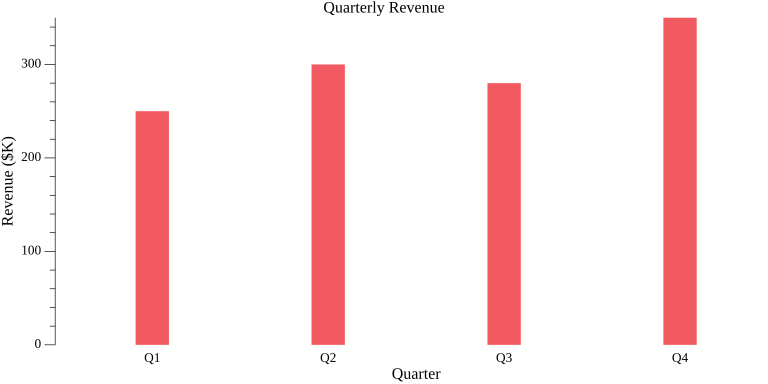
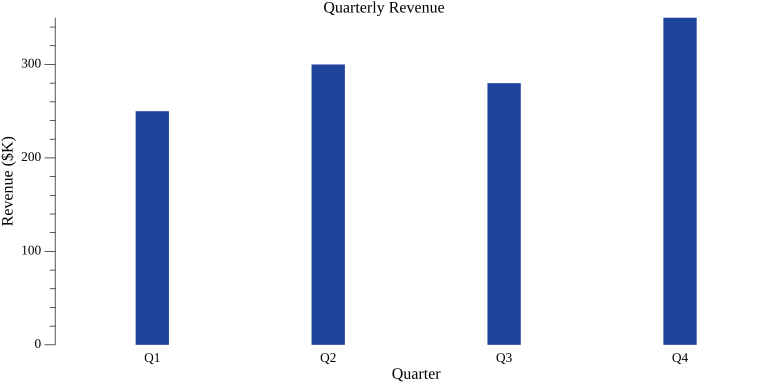
feat(plot,gplot): open the shared palette with Insyra's brand colours (#413)
plot and gplot now draw series i from one palette, internal/palette,
which opens with the website's blue #1F449B, orange #F9AC41 and red
#D73E3E. gplot's doc images are redrawn.

diff --git a/plot/internal/colors.go b/plot/internal/colors.go
@@ -2,6 +2,8 @@
 
 package internal
 
+import "github.com/HazelnutParadise/insyra/internal/palette"
+
 // DefaultColors returns a carefully curated palette of 64 colors designed for data visualization.
 // This palette is designed to be:
 // - Comfortable and easy on the eyes
@@ -25,91 +27,12 @@ package internal
 // 7. Warm Neutrals (sophistication, elegance)
 // 8. Cool Accents (diversity, interest, depth)
 //
-// Arrangement: Colors are interleaved so that index 0 is from family 1,
-// index 1 is from family 2, index 2 is from family 3, etc.
-// This maximizes visual distinction between consecutive series.
+// Arrangement: Colors are interleaved across the families, so consecutive
+// series differ. The first round opens with Insyra's three brand colours,
+// blue, orange and red, the ones the website uses. The palette lives in
+// internal/palette, which gplot shares.
 func DefaultColors() []string {
-	return []string{
-		// Round 1: First color from each family
-		"#4A90E2", // Blues: Bright sky blue
-		"#50C878", // Greens: Emerald
-		"#9B59B6", // Purples: Amethyst
-		"#E74C3C", // Reds/Pinks: Vibrant red
-		"#F39C12", // Oranges/Ambers: Golden orange
-		"#1ABC9C", // Teals/Cyans: Turquoise
-		"#95A5A6", // Warm Neutrals: Slate gray
-		"#E67E22", // Cool Accents: Pumpkin
-
-		// Round 2: Second color from each family
-		"#5B9BD5", // Blues: Soft azure
-		"#6DB784", // Greens: Soft jade
-		"#8E7AB5", // Purples: Lavender purple
-		"#F06292", // Reds/Pinks: Rose pink
-		"#FF9F4A", // Oranges/Ambers: Tangerine
-		"#26C6DA", // Teals/Cyans: Bright cyan
-		"#8D6E63", // Warm Neutrals: Mocha brown
-		"#16A085", // Cool Accents: Dark turquoise
-
-		// Round 3: Third color from each family
-		"#6B7FBD", // Blues: Muted periwinkle
-		"#8BC34A", // Greens: Fresh lime
-		"#B47EBF", // Purples: Orchid
-		"#EC6B7A", // Reds/Pinks: Coral red
-		"#FFB74D", // Oranges/Ambers: Soft amber
-		"#4DB6AC", // Teals/Cyans: Teal green
-		"#B8956A", // Warm Neutrals: Warm taupe
-		"#9C27B0", // Cool Accents: Deep purple
-
-		// Round 4: Fourth color from each family
-		"#3D5A98", // Blues: Deep royal blue
-		"#45B592", // Greens: Sea green
-		"#7B68AB", // Purples: Royal purple
-		"#D47A8A", // Reds/Pinks: Dusty rose
-		"#E89944", // Oranges/Ambers: Burnt orange
-		"#48C9B0", // Teals/Cyans: Aquamarine
-		"#A1887F", // Warm Neutrals: Soft brown
-		"#D35400", // Cool Accents: Rust
-
-		// Round 5: Fifth color from each family
-		"#5DADE2", // Blues: Light ocean blue
-		"#66A266", // Greens: Forest green
-		"#A67CB5", // Purples: Soft mauve
-		"#E57373", // Reds/Pinks: Light red
-		"#FFA726", // Oranges/Ambers: Light orange
-		"#5CC5C0", // Teals/Cyans: Seafoam
-		"#9E9E9E", // Warm Neutrals: Medium gray
-		"#27AE60", // Cool Accents: Kelly green
-
-		// Round 6: Sixth color from each family
-		"#2E7D9A", // Blues: Teal blue
-		"#7CB342", // Greens: Apple green
-		"#9575CD", // Purples: Medium purple
-		"#C7556B", // Reds/Pinks: Berry red
-		"#FF8C42", // Oranges/Ambers: Mandarin
-		"#43A19E", // Teals/Cyans: Dark teal
-		"#AB8F7D", // Warm Neutrals: Caramel
-		"#C0392B", // Cool Accents: Brick red
-
-		// Round 7: Seventh color from each family
-		"#7BA3CC", // Blues: Powder blue
-		"#5FAD56", // Greens: Meadow green
-		"#8B7FB8", // Purples: Periwinkle purple
-		"#E85D75", // Reds/Pinks: Watermelon
-		"#F8B739", // Oranges/Ambers: Honey gold
-		"#50BCD4", // Teals/Cyans: Sky cyan
-		"#90A4AE", // Warm Neutrals: Blue gray
-		"#2980B9", // Cool Accents: Ocean blue
-
-		// Round 8: Eighth color from each family
-		"#4169A8", // Blues: Medium cobalt
-		"#4D9D7C", // Greens: Sage green
-		"#BA68C8", // Purples: Light violet
-		"#D66B75", // Reds/Pinks: Salmon pink
-		"#E6A23C", // Oranges/Ambers: Marigold
-		"#3EACB4", // Teals/Cyans: Ocean teal
-		"#7D6C65", // Warm Neutrals: Cocoa
-		"#F1C40F", // Cool Accents: Sunny yellow
-	}
+	return palette.Hex()
 }
 
 // GetColor returns the color at the specified index from the default palette.

diff --git a/internal/palette/palette.go b/internal/palette/palette.go
@@ -1,0 +1,105 @@
+// Package palette holds the series colours plot and gplot share, so series i
+// is the same colour in an interactive chart and a static one.
+package palette
+
+import (
+	"image/color"
+	"strconv"
+)
+
+// hex is the palette: 64 colours in 8 families, interleaved so consecutive
+// series differ. The first three are Insyra's brand colours, the ones the
+// website uses: blue #1F449B, orange #F9AC41 and red #D73E3E.
+var hex = []string{
+	// Round 1: Insyra's three brand colours first, then the other families
+	"#1F449B", // Blues: Insyra blue
+	"#F9AC41", // Oranges/Ambers: Insyra orange
+	"#D73E3E", // Reds/Pinks: Insyra red
+	"#50C878", // Greens: Emerald
+	"#9B59B6", // Purples: Amethyst
+	"#1ABC9C", // Teals/Cyans: Turquoise
+	"#95A5A6", // Warm Neutrals: Slate gray
+	"#E67E22", // Cool Accents: Pumpkin
+
+	// Round 2: Second color from each family
+	"#5B9BD5", // Blues: Soft azure
+	"#6DB784", // Greens: Soft jade
+	"#8E7AB5", // Purples: Lavender purple
+	"#F06292", // Reds/Pinks: Rose pink
+	"#FF9F4A", // Oranges/Ambers: Tangerine
+	"#26C6DA", // Teals/Cyans: Bright cyan
+	"#8D6E63", // Warm Neutrals: Mocha brown
+	"#16A085", // Cool Accents: Dark turquoise
+
+	// Round 3: Third color from each family
+	"#6B7FBD", // Blues: Muted periwinkle
+	"#8BC34A", // Greens: Fresh lime
+	"#B47EBF", // Purples: Orchid
+	"#EC6B7A", // Reds/Pinks: Coral red
+	"#FFB74D", // Oranges/Ambers: Soft amber
+	"#4DB6AC", // Teals/Cyans: Teal green
+	"#B8956A", // Warm Neutrals: Warm taupe
+	"#9C27B0", // Cool Accents: Deep purple
+
+	// Round 4: Fourth color from each family
+	"#3D5A98", // Blues: Deep royal blue
+	"#45B592", // Greens: Sea green
+	"#7B68AB", // Purples: Royal purple
+	"#D47A8A", // Reds/Pinks: Dusty rose
+	"#E89944", // Oranges/Ambers: Burnt orange
+	"#48C9B0", // Teals/Cyans: Aquamarine
+	"#A1887F", // Warm Neutrals: Soft brown
+	"#D35400", // Cool Accents: Rust
+
+	// Round 5: Fifth color from each family
+	"#5DADE2", // Blues: Light ocean blue
+	"#66A266", // Greens: Forest green
+	"#A67CB5", // Purples: Soft mauve
+	"#E57373", // Reds/Pinks: Light red
+	"#FFA726", // Oranges/Ambers: Light orange
+	"#5CC5C0", // Teals/Cyans: Seafoam
+	"#9E9E9E", // Warm Neutrals: Medium gray
+	"#27AE60", // Cool Accents: Kelly green
+
+	// Round 6: Sixth color from each family
+	"#2E7D9A", // Blues: Teal blue
+	"#7CB342", // Greens: Apple green
+	"#9575CD", // Purples: Medium purple
+	"#C7556B", // Reds/Pinks: Berry red
+	"#FF8C42", // Oranges/Ambers: Mandarin
+	"#43A19E", // Teals/Cyans: Dark teal
+	"#AB8F7D", // Warm Neutrals: Caramel
+	"#C0392B", // Cool Accents: Brick red
+
+	// Round 7: Seventh color from each family
+	"#7BA3CC", // Blues: Powder blue
+	"#5FAD56", // Greens: Meadow green
+	"#8B7FB8", // Purples: Periwinkle purple
+	"#E85D75", // Reds/Pinks: Watermelon
+	"#F8B739", // Oranges/Ambers: Honey gold
+	"#50BCD4", // Teals/Cyans: Sky cyan
+	"#90A4AE", // Warm Neutrals: Blue gray
+	"#2980B9", // Cool Accents: Ocean blue
+
+	// Round 8: Eighth color from each family
+	"#4169A8", // Blues: Medium cobalt
+	"#4D9D7C", // Greens: Sage green
+	"#BA68C8", // Purples: Light violet
+	"#D66B75", // Reds/Pinks: Salmon pink
+	"#E6A23C", // Oranges/Ambers: Marigold
+	"#3EACB4", // Teals/Cyans: Ocean teal
+	"#7D6C65", // Warm Neutrals: Cocoa
+	"#F1C40F", // Cool Accents: Sunny yellow
+}
+
+// Hex returns a copy of the palette as #RRGGBB strings.
+func Hex() []string {
+	return append([]string(nil), hex...)
+}
+
+// Color returns colour i of the palette, wrapping past its end.
+func Color(i int) color.Color {
+	h := hex[i%len(hex)]
+	v, _ := strconv.ParseUint(h[1:], 16, 32)
+	return color.RGBA{R: uint8(v >> 16), G: uint8(v >> 8), B: uint8(v), A: 255}
+}

diff --git a/gplot/chart_shapes_test.go b/gplot/chart_shapes_test.go
@@ -160,8 +160,8 @@ func TestANilListInsideAWrapperIsDropped(t *testing.T) {
 	}
 }
 
-// Every chart colours series i from one palette: series 1 is the same red
-// whether it is a bar, a line, a step or a set of points.
+// Every chart colours series i from the palette plot uses: series 1 is the
+// same Insyra blue whether it is a bar, a line, a step or a set of points.
 func TestEveryChartSharesOnePalette(t *testing.T) {
 	quietFatal(t)
 	a := insyra.NewDataList(1.0, 2.0, 3.0).SetName("a")
@@ -183,12 +183,12 @@ func TestEveryChartSharesOnePalette(t *testing.T) {
 		},
 	}
 	want := map[string][]color.Color{
-		"bar":       {seriesFill(0), seriesFill(1)},
-		"line":      {seriesStroke(0), seriesStroke(1)},
-		"step":      {seriesStroke(0), seriesStroke(1)},
-		"scatter":   {seriesStroke(0), seriesStroke(1)},
-		"histogram": {seriesFill(0)},
-		"function":  {seriesStroke(0)},
+		"bar":       {seriesColor(0), seriesColor(1)},
+		"line":      {seriesColor(0), seriesColor(1)},
+		"step":      {seriesColor(0), seriesColor(1)},
+		"scatter":   {seriesColor(0), seriesColor(1)},
+		"histogram": {seriesColor(0)},
+		"function":  {seriesColor(0)},
 	}
 	for name, build := range charts {
 		t.Run(name, func(t *testing.T) {
@@ -203,9 +203,6 @@ func TestEveryChartSharesOnePalette(t *testing.T) {
 				}
 			}
 		})
-	}
-	if rgb(seriesFill(0)) == rgb(seriesStroke(0)) {
-		t.Error("the fill and stroke palettes are the same colour; a bar's outline would vanish into a line's colour")
 	}
 }
 

diff --git a/gplot/colors.go b/gplot/colors.go
@@ -3,20 +3,12 @@ package gplot
 import (
 	"image/color"
 
-	"gonum.org/v1/plot/plotutil"
+	"github.com/HazelnutParadise/insyra/internal/palette"
 )
 
-// Every chart colours series i from one palette, gonum's paired soft and dark
-// colours, which share their order of hues: series 1 is red in every chart.
-// A filled shape takes the soft colour; a line or a marker takes the dark one,
-// which stays readable at a line's width.
-
-// seriesFill is the colour of series i's filled shapes, such as bars.
-func seriesFill(i int) color.Color {
-	return plotutil.SoftColors[i%len(plotutil.SoftColors)]
-}
-
-// seriesStroke is the colour of series i's lines and markers.
-func seriesStroke(i int) color.Color {
-	return plotutil.DarkColors[i%len(plotutil.DarkColors)]
+// seriesColor is the colour of series i in every chart: the palette plot
+// uses, which opens with Insyra's blue, orange and red, so a series is the
+// same colour in an interactive chart and a static one.
+func seriesColor(i int) color.Color {
+	return palette.Color(i)
 }

diff --git a/plot/internal/colors_example.go b/plot/internal/colors_example.go
@@ -13,8 +13,8 @@ func PrintColorPalette() {
 
 	colorNames := []string{
 		// Round 1
-		"Bright sky blue", "Emerald", "Amethyst", "Vibrant red",
-		"Golden orange", "Turquoise", "Slate gray", "Pumpkin",
+		"Insyra blue", "Insyra orange", "Insyra red", "Emerald",
+		"Amethyst", "Turquoise", "Slate gray", "Pumpkin",
 		// Round 2
 		"Soft azure", "Soft jade", "Lavender purple", "Rose pink",
 		"Tangerine", "Bright cyan", "Mocha brown", "Dark turquoise",
@@ -350,8 +350,8 @@ func GenerateHTMLColorPreview() string {
 
 	colorNames := []string{
 		// Round 1
-		"Bright sky blue", "Emerald", "Amethyst", "Vibrant red",
-		"Golden orange", "Turquoise", "Slate gray", "Pumpkin",
+		"Insyra blue", "Insyra orange", "Insyra red", "Emerald",
+		"Amethyst", "Turquoise", "Slate gray", "Pumpkin",
 		// Round 2
 		"Soft azure", "Soft jade", "Lavender purple", "Rose pink",
 		"Tangerine", "Bright cyan", "Mocha brown", "Dark turquoise",

diff --git a/internal/palette/palette_test.go b/internal/palette/palette_test.go
@@ -1,0 +1,24 @@
+package palette
+
+import (
+	"fmt"
+	"testing"
+)
+
+func TestColorMatchesHexAndWraps(t *testing.T) {
+	hex := Hex()
+	if hex[0] != "#1F449B" || hex[1] != "#F9AC41" || hex[2] != "#D73E3E" {
+		t.Fatalf("the palette opens with %v; want Insyra's blue, orange and red", hex[:3])
+	}
+	for _, i := range []int{0, 1, 2, len(hex) - 1, len(hex), len(hex) + 1} {
+		r, g, b, _ := Color(i).RGBA()
+		got := fmt.Sprintf("#%02X%02X%02X", r>>8, g>>8, b>>8)
+		if want := hex[i%len(hex)]; got != want {
+			t.Errorf("Color(%d) = %s; want %s", i, got, want)
+		}
+	}
+	hex[0] = "#000000"
+	if Hex()[0] != "#1F449B" {
+		t.Error("Hex returned the palette itself, so a caller could change it")
+	}
+}

diff --git a/gplot/function.go b/gplot/function.go
@@ -63,8 +63,8 @@ func CreateFunctionPlot(config FunctionPlotConfig, function func(x float64) floa
 
 	// Create the function plot using plotter.NewFunction
 	functionPlot := plotter.NewFunction(function)
-	functionPlot.Color = seriesStroke(0)
-	functionPlot.Width = vg.Points(1.5)
+	functionPlot.Color = seriesColor(0)
+	functionPlot.Width = vg.Points(2)
 
 	// Set X-axis range for the function
 	functionPlot.XMin = config.XMin

diff --git a/gplot/bar.go b/gplot/bar.go
@@ -66,7 +66,7 @@ func CreateBarChart(config BarChartConfig, data ...insyra.IDataList) (*plot.Plot
 		if err != nil {
 			return nil, chartError("CreateBarChart", "cannot draw list %d: %w", pos[i]+1, err)
 		}
-		bars.Color = seriesFill(i)
+		bars.Color = seriesColor(i)
 		bars.LineStyle.Width = 0
 		if len(values) > 1 {
 			// Centre the group on its category: bar i sits i widths right of

diff --git a/gplot/line.go b/gplot/line.go
@@ -123,8 +123,8 @@ func addLineSeries(plt *plot.Plot, seriesName string, values []float64, xAxis []
 		line.Dashes = []vg.Length{vg.Points(6), vg.Points(2), vg.Points(1), vg.Points(2)}
 	}
 
-	line.Color = seriesStroke(index)
-	line.Width = vg.Points(1.5)
+	line.Color = seriesColor(index)
+	line.Width = vg.Points(2)
 
 	plt.Add(line)
 	plt.Legend.Add(seriesName, line)

diff --git a/gplot/scatter.go b/gplot/scatter.go
@@ -131,7 +131,7 @@ func addScatterSeries(plt *plot.Plot, seriesName string, xs, ys []float64, index
 		return fmt.Errorf("series %q cannot be drawn: %w", seriesName, err)
 	}
 
-	scatter.Color = seriesStroke(index)
+	scatter.Color = seriesColor(index)
 
 	// Set different shapes for each series
 	shapes := []draw.GlyphDrawer{

diff --git a/gplot/histogram.go b/gplot/histogram.go
@@ -51,7 +51,7 @@ func CreateHistogram(config HistogramConfig, data insyra.IDataList) (*plot.Plot,
 	if err != nil {
 		return nil, chartError("CreateHistogram", "cannot draw the histogram: %w", err)
 	}
-	hist.FillColor = seriesFill(0)
+	hist.FillColor = seriesColor(0)
 
 	// Create a new plot.
 	plt := plot.New()

diff --git a/CHANGELOG.md b/CHANGELOG.md
@@ -364,6 +364,7 @@ v0.3.0 and everything before it is not repeated here — see [GitHub Releases](h
 - The heat map has the name `gplot` uses: `CreateHeatmapChart`, with `HeatmapChartConfig`, `HeatmapPoint`, `HeatmapAxis`, `NewHeatmapPoint` and `NewHeatmapMissingPoint`. The former `HeatMap` names still work for one release and are marked Deprecated. ([#413](https://github.com/HazelnutParadise/insyra/issues/413))
 - **BREAKING**: `CreateRadarChart` takes its series variadically, like every other constructor: `CreateRadarChart(cfg, a, b)`. A slice you already have is passed as `series...`. ([#413](https://github.com/HazelnutParadise/insyra/issues/413))
 - **BREAKING (behaviour)**: `CreateBarChart` and `CreateLineChart` refuse an empty list with an error naming it, such as `plot: CreateLineChart: list 3 is empty`, where they drew an empty series and returned the chart. A position in an error or a warning counts the arguments as you wrote them, from one, `nil` ones included: an error used to count only the lists left after the `nil` ones, and the warning for a `nil` list counted from zero. A failing call no longer logs the warning for a `nil` list it skipped first. ([#413](https://github.com/HazelnutParadise/insyra/issues/413))
+- The series palette opens with Insyra's brand colours, blue `#1F449B`, orange `#F9AC41` and red `#D73E3E`, the ones the website uses, in place of a sky blue, an emerald and an amethyst; the rest of the 64 colours are unchanged. `gplot` uses the same palette. ([#413](https://github.com/HazelnutParadise/insyra/issues/413))
 
 ### `isr`
 - `Err()`, `PopErr()`, `ClearErr()` and `SetErr()` are available on `DT` and `DL`; `ClearErr`/`SetErr` return the isr type, so they keep the block syntax instead of ending the chain at `*insyra.DataTable`.
@@ -388,7 +389,7 @@ v0.3.0 and everything before it is not repeated here — see [GitHub Releases](h
 - **BREAKING (behaviour)**: the scatter chart refuses a cell of `X` or `Y` that is not a Go number (`nil`, text, a numeric string such as `"2"`, or a `bool`) with an error naming the series, the axis and the row, where it drew the point at 0. A series is named by its position counting from one and its name, such as `series 2 ("empty") has no points`. ([#413](https://github.com/HazelnutParadise/insyra/issues/413))
 - `CreateBarChart` takes `...insyra.IDataList` and draws several lists side by side in each category, one colour per list, with a legend naming each list: `gplot.CreateBarChart(cfg, sales2025, sales2026)`. A call with one list draws as before. Lists of different lengths are an error naming the list, and `ErrorBars` is refused with more than one list. Every bar chart now leaves half a category of margin at each end, so the first and last bars are no longer cut by the frame. ([#413](https://github.com/HazelnutParadise/insyra/issues/413))
 - A wrapper such as `isr.DL` holding a `nil` list counts as `nil`, so `CreateLineChart(cfg, nilWrapper, list)` drops it with a warning instead of panicking ([#412](https://github.com/HazelnutParadise/insyra/issues/412)). The warning counts positions from one, and a call that fails no longer logs it. ([#413](https://github.com/HazelnutParadise/insyra/issues/413))
-- Every chart colours its series from one palette, gonum's paired soft and dark colours, so series 1 is the same red in a bar, line, step or scatter chart. Bars and histograms, black or grey before, are filled in colour; lines, steps and function curves, black before, are drawn in colour and keep their dash patterns; the scatter chart's own red, blue and green give way to the same palette. ([#413](https://github.com/HazelnutParadise/insyra/issues/413))
+- Every chart colours its series from the palette `plot` uses, which opens with Insyra's brand colours, blue `#1F449B`, orange `#F9AC41` and red `#D73E3E`, so series *i* is the same colour in every `gplot` chart and in its `plot` counterpart. Bars and histograms, black or grey before, are filled in colour; lines, steps and function curves, black before, are drawn in colour and keep their dash patterns; the scatter chart's own red, blue and green give way to the same palette. ([#413](https://github.com/HazelnutParadise/insyra/issues/413))
 
 ### `py`
 - `PipInstall` and `PipUninstall` refuse a dependency name starting with `-`, and pass `--` before it. The caller's string went to `uv pip install` as one argv, so `--requirement=/path` made uv read that file and install whatever it listed.
